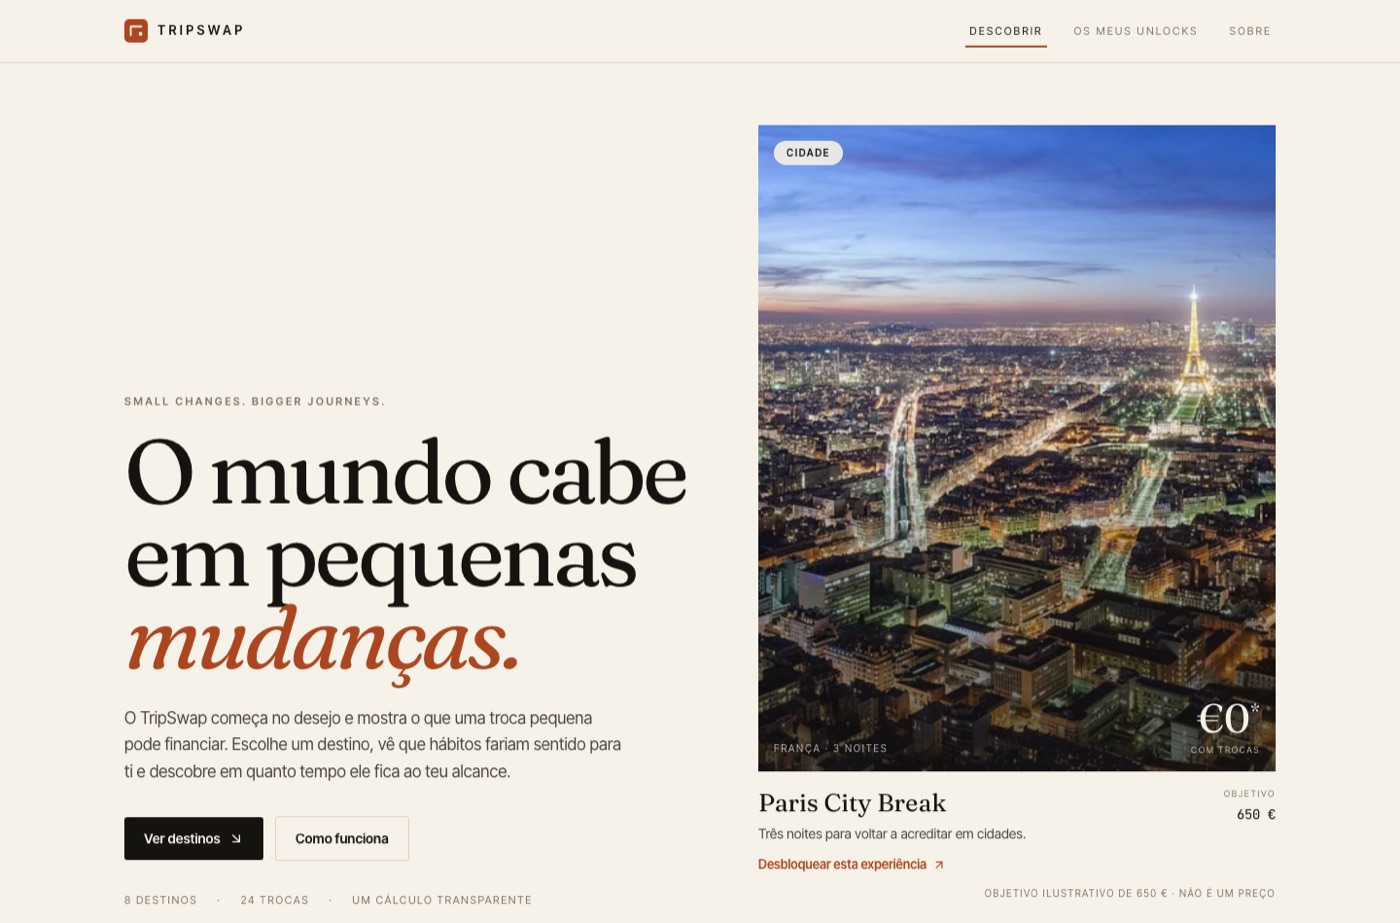
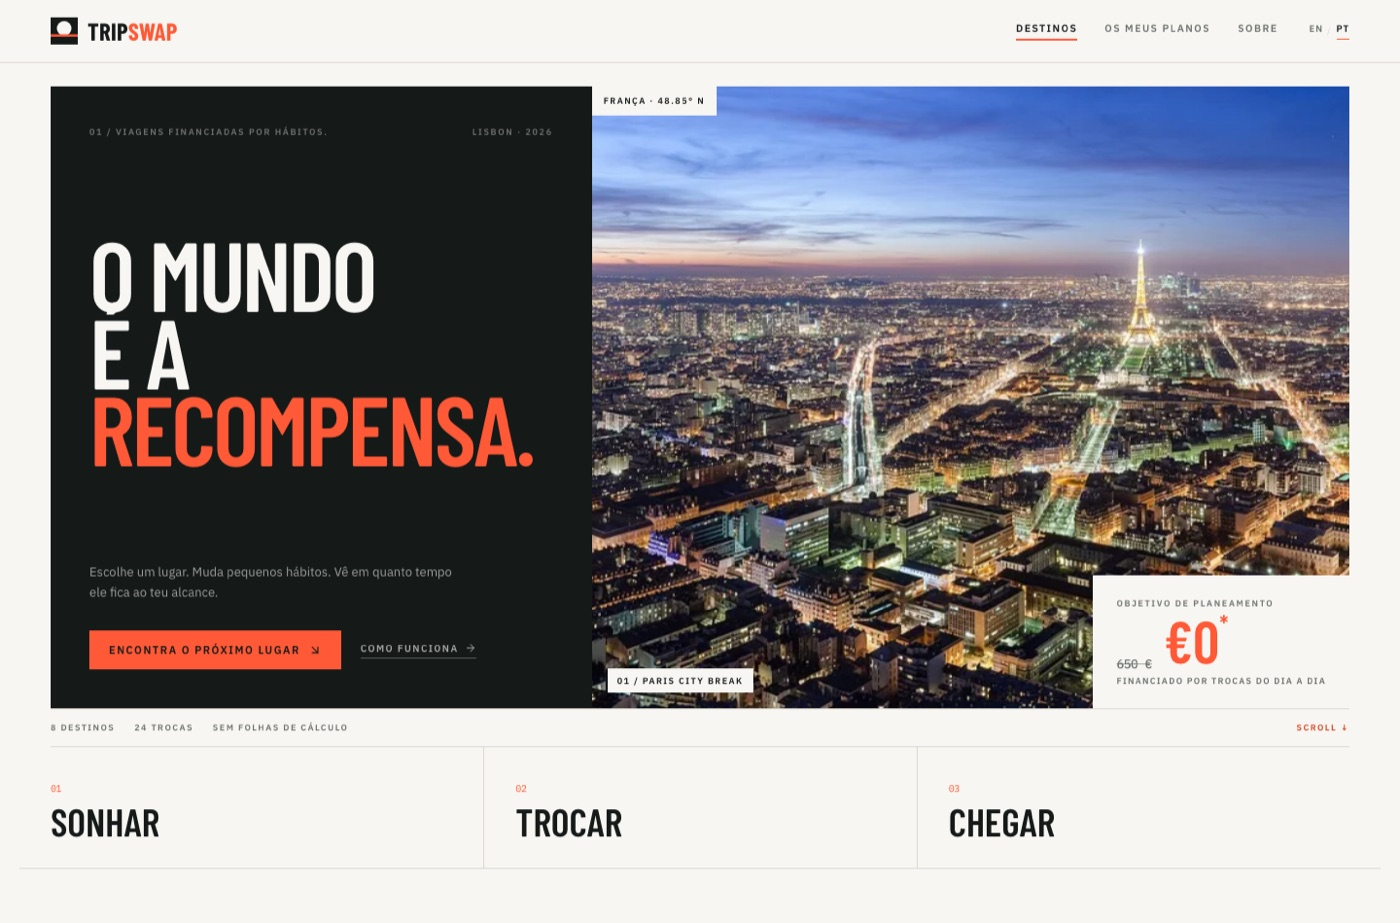
docs: document the art direction and design system

diff --git a/docs/CREDITS.md b/docs/CREDITS.md
@@ -7,12 +7,12 @@ Nenhuma imagem é servida a partir de um domínio de terceiros em runtime.
 | Ficheiro | Destino | Obra | Autor | Licença | Origem |
 |---|---|---|---|---|---|
 | `douro.webp` | Douro Escape | The Douro Valley vineyards | mat's eye | CC BY 2.0 | [Wikimedia Commons](https://commons.wikimedia.org/wiki/File:The_Douro_Valley_vineyards.jpg) |
-| `lisbon.webp` | Lisbon Weekend | Lissabon – Alfama – Largo Santa Luzia – Streetcar – 1 | Ingo Mehling | CC BY-SA 4.0 | [Wikimedia Commons](https://commons.wikimedia.org/wiki/File:Lissabon_-_Alfama_-_Largo_Santa_Luzia_-_Streetcar_-_1.jpg) |
+| `lisbon.webp` | Lisbon Weekend | Alfama Rooftops and Tagus River View | Dale Cruse | CC BY 4.0 | [Wikimedia Commons](https://commons.wikimedia.org/wiki/File:Alfama_Rooftops_and_Tagus_River_View,_Lisbon_(54733828355).jpg) |
 | `paris.webp` | Paris City Break | Paris Night | Benh LIEU SONG | CC BY-SA 4.0 | [Wikimedia Commons](https://commons.wikimedia.org/wiki/File:Paris_Night.jpg) |
-| `barcelona.webp` | Barcelona Weekend | Sagrada Familia March 2015-10a | Alvesgaspar | CC BY-SA 4.0 | [Wikimedia Commons](https://commons.wikimedia.org/wiki/File:Sagrada_Familia_March_2015-10a.jpg) |
+| `barcelona.webp` | Barcelona Weekend | Barcelona desde el Parque Güell | Jcca76 | CC BY-SA 4.0 | [Wikimedia Commons](https://commons.wikimedia.org/wiki/File:Barcelona_desde_el_Parque_G%C3%BCell.JPG) |
 | `rome.webp` | Rome Discovery | Colosseum in Rome – April 2007 | Diliff | CC BY-SA 2.5 | [Wikimedia Commons](https://commons.wikimedia.org/wiki/File:Colosseum_in_Rome-April_2007-1-_copie_2B.jpg) |
 | `alps.webp` | French Alps Winter Escape | French Alps (233127345) | Loic Faucon | CC BY 3.0 | [Wikimedia Commons](https://commons.wikimedia.org/wiki/File:French_Alps_(233127345).jpeg) |
-| `iceland.webp` | Northern Lights Adventure | 039 Northern lights over Mývatn | Giles Laurent | CC BY-SA 4.0 | [Wikimedia Commons](https://commons.wikimedia.org/wiki/File:039_Northern_lights_over_M%C3%BDvatn_(Iceland)_Photo_by_Giles_Laurent.jpg) |
+| `iceland.webp` | Northern Lights Adventure | Northern Lights Over Red Roofed Cabins | Preserved Light Photography | CC BY-SA 3.0 | [Wikimedia Commons](https://commons.wikimedia.org/wiki/File:Northern_Lights_Over_Red_Roofed_Cabins_(63879565).jpeg) |
 | `india.webp` | India Discovery | Taj Mahal, Agra, India edit2 | Yann; edited by King of Hearts | CC BY-SA 4.0 | [Wikimedia Commons](https://commons.wikimedia.org/wiki/File:Taj_Mahal,_Agra,_India_edit2.jpg) |
 
 ## Notas de licença
@@ -21,6 +21,6 @@ Nenhuma imagem é servida a partir de um domínio de terceiros em runtime.
   mesma licença. As imagens são usadas sem alteração de conteúdo, apenas redimensionadas
   e recodificadas, e a atribuição está visível em `/about` e neste ficheiro.
 - O projeto não reivindica propriedade sobre as fotografias.
-- Tipografia: Fraunces, Inter Tight e JetBrains Mono, distribuídas via
+- Tipografia: Barlow Condensed, IBM Plex Sans e IBM Plex Mono, distribuídas via
   [Fontsource](https://fontsource.org) sob SIL Open Font License 1.1.
 - Ícones: [Lucide](https://lucide.dev), licença ISC.

diff --git a/CLAUDE.md b/CLAUDE.md
@@ -23,9 +23,10 @@ Supporting line: **Less of this. More of the world.**
 - Tailwind CSS 3.4 (design tokens in `tailwind.config.ts`)
 - React Router 7 (`/`, `/destination/:id`, `/unlocks`, `/about`)
 - Lucide icons
-- Self-hosted fonts via Fontsource: Fraunces (display), Inter Tight (UI),
-  JetBrains Mono (tabular numerals)
+- Self-hosted fonts via Fontsource: Barlow Condensed (display), IBM Plex Sans (UI),
+  IBM Plex Mono (tabular numerals)
 - Typed PT/EN dictionaries in `src/i18n` (no i18n dependency) and a persisted locale
+- Design tokens: canvas `#F7F6F2`, ink `#151A19`, signal `#FF5936`, pale blue `#D8E8EE`
 - Vitest for the calculation engine, data integrity and formatting
 - localStorage for saved plans, behind `src/lib/storage.ts`
 - Docker (multi-stage) + DevContainer, deployed on Vercel
@@ -67,6 +68,10 @@ is the only place where amounts are summed.
 - Keep all user-facing amounts formatted through `src/lib/format.ts`, passing the locale.
 - Every user-facing string lives in `src/i18n/pt.ts` and `src/i18n/en.ts`; no copy
   literals in components. Translated data lives in `src/i18n/content.ts`.
+- Design rules: photography first, Barlow Condensed for display, one signal colour,
+  no serif italics, no warm beige, no rounded pills, no decorative gradients or
+  glassmorphism. Use `PriceBlock` for every €0* surface and `RewardPanel` for the
+  destination progress interaction.
 - No `any`. No new dependency without a stated reason.
 - Run `npm run lint && npm test && npm run build` before committing.
 
@@ -103,6 +108,17 @@ npm test                # Vitest
 npm run build           # typecheck + production build
 docker compose up       # same dev server in a container
 ```
+
+## Design system
+
+- Canvas `#F7F6F2`; ink `#151A19`; signal `#FF5936`; pale blue `#D8E8EE`.
+- Display: Barlow Condensed, uppercase, tight leading (0.79–0.9).
+- Interface: IBM Plex Sans. Numbers: IBM Plex Mono, tabular.
+- No rounded corners. Borders are 1px lines; emphasis comes from scale and contrast.
+- The €0* block always includes the crossed-out planning target, the €0* expression and
+  the "funded by everyday swaps" line. It is never a discount or a free price.
+- The signature interaction is the reward window: destination photo, tide fill, coral
+  edge rail, animated months, then the monthly saving and target.
 
 ## Business context
 

diff --git a/README.pt.md b/README.pt.md
@@ -59,6 +59,8 @@ fluxo, um ecrã principal.
 - **Poupanças pontuais não são rendimento mensal.** Reparações e vendas entram uma vez.
 - **Transparência total.** Cada ecrã de resultado inclui o recibo do cálculo e a nota
   sobre o €0\*.
+- **Uma interação-assinatura.** Escolher trocas faz o destino subir: uma linha coral
+  sobe pela fotografia, a imagem aproxima-se e o contador de meses anima.
 - **Bilingue por desenho.** O inglês é o idioma por omissão e o português está a um
   clique. O toggle muda toda a copy — incluindo as 24 trocas e os 8 destinos — e os
   números mantêm-se iguais.
@@ -68,13 +70,33 @@ fluxo, um ecrã principal.
 
 ---
 
+## Direção de arte
+
+**The world is the reward.** O TripSwap é uma revista de viagens redesenhada como
+produto: fotografia full-bleed, tipografia condensada e uma única cor-sinal.
+
+| Token | Valor |
+|---|---|
+| Canvas | `#F7F6F2` |
+| Ink | `#151A19` |
+| Signal | `#FF5936` |
+| Azul pálido | `#D8E8EE` |
+| Display | Barlow Condensed |
+| Interface | IBM Plex Sans |
+| Números | IBM Plex Mono |
+
+O bloco €0* mostra sempre o orçamento ilustrativo riscado, a expressão €0* e a linha
+"financiado por trocas". No detalhe, a fotografia do destino é a superfície de
+progresso: uma maré crescente e uma linha coral ligam as trocas escolhidas, a poupança
+mensal e o tempo até ao objetivo.
+
 ## Stack
 
 | Área | Escolha |
 |---|---|
 | Framework | React 19 + TypeScript (strict) |
 | Build | Vite 8 |
-| Estilo | Tailwind CSS 3.4, tipografia Fraunces / Inter Tight / JetBrains Mono |
+| Estilo | Tailwind CSS 3.4, Barlow Condensed / IBM Plex Sans / IBM Plex Mono |
 | Router | React Router 7 |
 | Ícones | Lucide |
 | Gráfico | SVG próprio, sem biblioteca de charts |
@@ -170,8 +192,8 @@ incluindo uma falha real detetada por um teste.
 ## Créditos
 
 Fotografia: Wikimedia Commons / Unsplash, com autores e licenças em
-[`docs/CREDITS.md`](docs/CREDITS.md). Tipografia: Fraunces, Inter Tight e JetBrains
-Mono (SIL Open Font License), servidas localmente via Fontsource.
+[`docs/CREDITS.md`](docs/CREDITS.md). Tipografia: Barlow Condensed, IBM Plex Sans e IBM
+Plex Mono (SIL Open Font License), servidas localmente via Fontsource.
 
 Projeto final do curso **Building Digital Products with Generative AI** — EUNICE
 Network, 2026.

diff --git a/README.md b/README.md
@@ -59,6 +59,8 @@ one primary screen.
   once.
 - **Full transparency.** Every result screen includes the calculation receipt and the
   €0\* note.
+- **A signature interaction.** Choosing swaps makes the destination rise: a coral rail
+  climbs the photograph, the image moves closer and the months counter animates.
 - **Bilingual by design.** English is the default and Portuguese is one click away.
   The toggle changes every string — including the 24 swaps and 8 destinations — while
   the numbers stay identical.
@@ -68,13 +70,33 @@ one primary screen.
 
 ---
 
+## Design direction
+
+**The world is the reward.** TripSwap is a travel magazine redesigned as a product:
+full-bleed photography, condensed display type and one signal colour.
+
+| Token | Value |
+|---|---|
+| Canvas | `#F7F6F2` |
+| Ink | `#151A19` |
+| Signal | `#FF5936` |
+| Pale blue | `#D8E8EE` |
+| Display | Barlow Condensed |
+| Interface | IBM Plex Sans |
+| Numbers | IBM Plex Mono |
+
+The €0* block always shows the illustrative budget crossed out, the €0* expression and
+the "funded by everyday swaps" line. In the detail page, the destination photograph is
+the progress surface: a rising tide and a coral edge rail connect selected swaps, the
+monthly saving and the time to the target.
+
 ## Stack
 
 | Area | Choice |
 |---|---|
 | Framework | React 19 + TypeScript (strict) |
 | Build | Vite 8 |
-| Styling | Tailwind CSS 3.4, Fraunces / Inter Tight / JetBrains Mono |
+| Styling | Tailwind CSS 3.4, Barlow Condensed / IBM Plex Sans / IBM Plex Mono |
 | Router | React Router 7 |
 | Icons | Lucide |
 | Chart | Hand-rolled SVG, no chart library |
@@ -173,8 +195,8 @@ including a real failure caught by a test.
 ## Credits
 
 Photography: Wikimedia Commons / Unsplash, with authors and licences in
-[`docs/CREDITS.md`](docs/CREDITS.md). Type: Fraunces, Inter Tight and JetBrains Mono
-(SIL Open Font License), self-hosted via Fontsource.
+[`docs/CREDITS.md`](docs/CREDITS.md). Type: Barlow Condensed, IBM Plex Sans and IBM
+Plex Mono (SIL Open Font License), self-hosted via Fontsource.
 
 Final project for **Building Digital Products with Generative AI** — EUNICE Network,
 2026.

diff --git a/docs/QA.md b/docs/QA.md
@@ -8,7 +8,7 @@ Respostas curtas, para ensaiar em voz alta. Cada linha tem o artefacto que a pro
 > o dinheiro. O TripSwap mostra o custo real de planeamento, propõe trocas pequenas e
 > calcula em quanto tempo a viagem fica ao alcance. Começa no desejo, não no orçamento.
 
-## 16 perguntas
+## 17 perguntas
 
 | # | Pergunta | Resposta curta | Artefacto |
 |---|---|---|---|
@@ -22,12 +22,13 @@ Respostas curtas, para ensaiar em voz alta. Cada linha tem o artefacto que a pro
 | 8 | Porque não pedes o salário? | O valor não depende de dados pessoais. Reduz fricção, risco e superfície de privacidade. | `types.ts` |
 | 9 | O que a AI fez mal? | O motor somava trocas sobrepostas. Um teste falhou com 2 linhas onde esperava 1. Corrigi o motor. | `docs/PROMPTS.md` |
 | 10 | Como reproduzo? | `docker compose up` ou `npm ci && npm run dev`. Node 20. | `README.md` |
-| 11 | Como sabes que funciona? | 35 testes na lógica, checklist manual de 13 casos, CI em cada PR. | `docs/TESTING.md` |
+| 11 | Como sabes que funciona? | 35 testes na lógica, checklist manual de 17 casos, CI em cada PR. | `docs/TESTING.md` |
 | 12 | Onde está deployed? | Vercel, deploy automático a cada push para `main`. | `vercel.json`, `docs/PUBLISH.md` |
 | 13 | Como escalarias? | Pré-renderização, contas e sync, recomendação calculada, testes e2e. | `docs/DECISIONS.md` |
 | 14 | Qual foi a decisão mais difícil? | Excluir trocas sobrepostas em vez de penalizar. Perdi combinações, ganhei um número defensável. | `docs/DECISIONS.md` |
 | 15 | O que ficou de fora? | Auth, booking, preços live, backend, mapas. Sem isso o valor central mantém-se. | `docs/MVP.md` |
 | 16 | A app é bilingue? | Sim: inglês por omissão, português a um clique. Números iguais; copy e dados traduzidos. | `src/i18n`, `tests/i18n.test.ts` |
+| 17 | Qual é a ideia visual? | “The world is the reward”: fotografia full-bleed, Barlow Condensed, ink/canvas/signal. A foto é a superfície de progresso. | `README.md`, `src/index.css`, `RewardPanel` |
 
 ## Frases a evitar
 

diff --git a/docs/DEFENSE.md b/docs/DEFENSE.md
@@ -31,7 +31,7 @@ Nome, URL, repo. Visual: captura da homepage.
 - Visual: um cartão com €0\* e o orçamento real.
 
 ### 4. Demo — 2:00 (ver guião abaixo)
-**O momento de valor:** 3 trocas → 6 meses.
+**O momento de valor:** 3 trocas → 6 meses, com a maré a subir na fotografia e a linha coral a acompanhar.
 Visual: ecrã real, não mockup.
 
 ### 5. Scope — 5:00
@@ -41,7 +41,8 @@ Visual: ecrã real, não mockup.
 - Critério: “sem isto, o utilizador obtém o valor central?”
 - Visual: tabela in/out de `docs/MVP.md`.
 
-### 6. Arquitetura — 6:00
+### 6. Arquitetura e design — 6:00
+- Direção “The world is the reward”: Barlow Condensed, IBM Plex, ink/canvas/signal; fotografia como interface.
 - SPA estática: React 19 + TS + Vite + Tailwind.
 - Dados tipados → motor puro → UI. Sem servidor.
 - i18n local: dicionários PT/EN tipados, paridade testada, motor independente do idioma.
@@ -116,7 +117,7 @@ pedir desculpa mais de uma vez.
 
 ---
 
-## Q&A (13 perguntas)
+## Q&A (14 perguntas)
 
 **1. Isto não é só um CRUD?**
 > “O CRUD é o meio. O produto é o número: um motor que transforma escolhas em prazo,
@@ -170,6 +171,9 @@ pedir desculpa mais de uma vez.
 > “O produto é para Lisboa, mas o júri e o repo são internacionais. A interface tem
 > toggle, os dados estão traduzidos e um teste garante paridade. Os números não mudam
 > com o idioma.”
+
+**14. Porque mudaste o visual?**
+> “A primeira versão era competente mas previsível. O produto é sobre desejo; a fotografia tinha de ser o interface e o mecanismo financeiro a consequência. A reward window liga as trocas à imagem.”
 
 **Se não souberes:** “Não validei isso. A minha hipótese é X; o próximo teste seria Y.”
 

diff --git a/docs/DECISIONS.md b/docs/DECISIONS.md
@@ -1,6 +1,6 @@
 # Decisões
 
-Sete decisões que explicam a forma do produto. Cada uma tem o custo assumido.
+Oito decisões que explicam a forma do produto. Cada uma tem o custo assumido.
 
 ## 1. SPA estática em vez de Next.js
 
@@ -95,3 +95,19 @@ controlo total do tom editorial. O motor de cálculo não sabe qual é o idioma.
 **Trade-off:** cada nova string tem de ser adicionada nos dois dicionários; o teste de
 paridade falha se faltar. As rotas não são localizadas (`/destination/...` é igual nos
 dois idiomas).
+
+## 8. Direção de arte “The world is the reward”
+
+**Contexto:** a primeira versão era competente mas previsível — bege, serif itálico e
+cartões iguais. O produto é sobre desejo e viagem, não sobre poupança.
+
+**Decisão:** fotografia full-bleed, Barlow Condensed, IBM Plex Sans, IBM Plex Mono,
+ink/canvas/signal e azul pálido. €0* com orçamento riscado. Reward window com maré,
+linha coral e meses animados. Listas em vez de cartões.
+
+**Porquê:** a fotografia passa a ser o interface; o mecanismo financeiro aparece como
+consequência. A tipografia condensada dá escala e confiança sem parecer um template.
+
+**Trade-off:** menos densidade por ecrã e mais dependência de boa fotografia. As imagens
+substituídas (Lisboa, Barcelona, Islândia) exigem créditos e peso de página; foram
+comprimidas para WebP local.

diff --git a/docs/ITERATIONS.md b/docs/ITERATIONS.md
@@ -31,6 +31,11 @@ commit. Os tempos são reais e incluem revisão manual.
 | 24 | 13 Nov 04:18 | i18n conteúdo | 24 trocas, 8 destinos, benefícios e todas as vistas traduzidas | Toggle completo | `feat(i18n): translate catalogue and calculation flow` | 40 min |
 | 25 | 13 Nov 04:22 | i18n testes | Paridade de chaves, conteúdo EN, formatação localizada | 35/35 verdes | `test(i18n): cover parity and localised formatting` | 15 min |
 | 26 | 13 Nov 04:25 | Release | Changelog, versão e deploy | `v1.1.0` | `chore(release): v1.1.0` | 10 min |
+| 27 | 13 Nov 04:30 | Design system | Barlow Condensed, IBM Plex, canvas/ink/signal, remover Fraunces | Tokens novos | `feat(design): establish the new art direction` | 30 min |
+| 28 | 13 Nov 04:36 | Homepage | Hero assimétrico, catálogo flagship, €0* sky band | Nova homepage | `feat(home): rebuild hero and editorial catalogue` | 45 min |
+| 29 | 13 Nov 04:44 | Detalhe | Reward window com maré/rail, price block, hábitos em linhas | Nova interação | `feat(detail): add the reward window interaction` | 45 min |
+| 30 | 13 Nov 04:50 | QA | Imagens novas, contraste, mobile, screenshots e docs | 35/35 verdes | `docs: update art direction evidence` | 30 min |
+| 31 | 13 Nov 04:55 | Release | Changelog, versão e deploy | `v1.2.0` | `chore(release): v1.2.0` | 10 min |
 
 ## O que aprendi
 

diff --git a/CHANGELOG.md b/CHANGELOG.md
@@ -3,6 +3,31 @@
 Formato: [Keep a Changelog](https://keepachangelog.com/pt-PT/1.1.0/) ·
 Versionamento semântico.
 
+## [1.2.0] — 2026-11-13
+
+### Alterado
+
+- Nova direção de arte **“The world is the reward”**: Barlow Condensed, IBM Plex Sans e
+  IBM Plex Mono; canvas `#F7F6F2`, ink `#151A19`, signal `#FF5936` e azul pálido
+  `#D8E8EE`. Removidos Fraunces, bege e terracota.
+- Homepage reconstruída: hero assimétrico, fotografia full-bleed, grelha editorial com
+  destino flagship e capítulos Dream / Swap / Arrive.
+- Detalhe reconstruído: bloco €0* com orçamento riscado, reward window com maré e linha
+  de progresso sobre a fotografia, meses animados e lista de trocas em linhas.
+- My plans, About, 404, header, footer e favicon redesenhados.
+- Nova fotografia para Lisboa, Barcelona e Islândia, com créditos atualizados.
+- Testes manuais de design e contraste em `docs/TESTING.md`.
+
+### Adicionado
+
+- `PriceBlock` e `RewardPanel` como componentes-assinatura.
+- Sistema tipográfico e tokens documentados no README.
+
+### Removido
+
+- `FundingPanel` e `ProgressRail` (substituídos pela reward window).
+- Dependências de Fraunces, Inter Tight e JetBrains Mono.
+
 ## [1.1.0] — 2026-11-13
 
 ### Adicionado

diff --git a/docs/TESTING.md b/docs/TESTING.md
@@ -53,7 +53,7 @@ componentes: o risco do produto está na aritmética e nas sobreposições.
 - Singular/plural de meses.
 - Percentagens.
 
-## Checklist manual (13 casos)
+## Checklist manual (17 casos)
 
 Executar em http://localhost:5173 e repetir no URL público.
 
@@ -72,6 +72,10 @@ Executar em http://localhost:5173 e repetir no URL público.
 | 11 | Primeira visita (incógnito) | Interface em **inglês**; Paris **€122 / 6 months** |
 | 12 | Toggle **PT** | Toda a copy em português; **122 € / 6 meses**; `lang` = `pt-PT` |
 | 13 | Recarregar em PT | PT persiste; toggle **EN** volta a inglês |
+| 14 | Contraste | Texto pequeno em `accent-dark`; €0* e números grandes em `accent` |
+| 15 | 360 px | Header cabe; sem scroll horizontal; reward window legível |
+| 16 | Reduced motion | Sem animações de maré, contador ou hover |
+| 17 | €0* | Orçamento riscado + €0* + “financiado por trocas”; nunca “grátis” |
 
 Casos adicionais: `/destination/nao-existe` (404), `/unlocks` sem planos (empty state),
 imagem inexistente (fallback), `prefers-reduced-motion` (sem animações).
